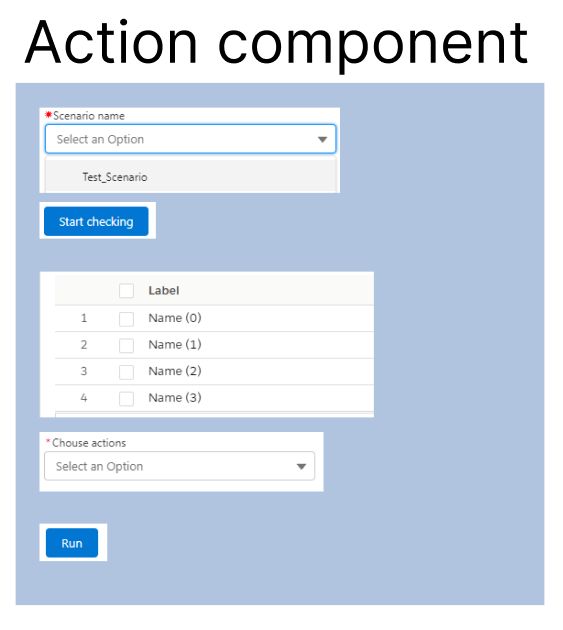
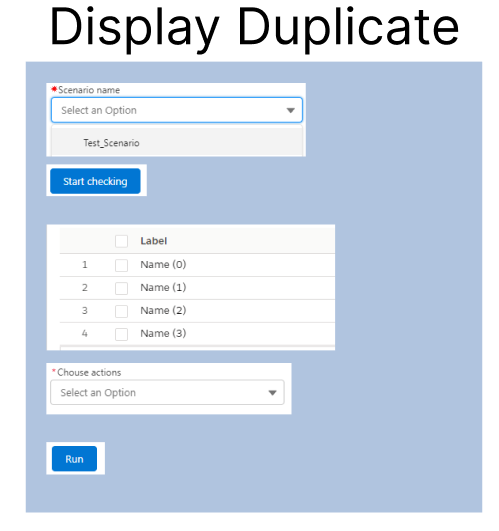
fix: presentation

Changed region(s): [[0.0301, 0.0, 0.9619, 0.9642]]

diff --git a/index.html b/index.html
@@ -247,7 +247,7 @@
         <section>
           <h5>Search duplicates Sync</h5>
           <div>
-            <img src="./assets/search-duplicates-sync.png" alt="search-duplicates-sync" width="" height="600px">
+            <img src="./assets/search-duplicates-sync.png" alt="search-duplicates-sync" width="250px" height="600px">
           </div>
         </section>
 
@@ -433,13 +433,13 @@
         </section>
 
         <section>
-          <h6>How to add new action</h6>
+          <h6>How to add new action(MVP-2)</h6>
           <ul>
             <li class="fragment" style="font-size: 32px;">There is a custom meta type with mapping action name class.</li>
             <li class="fragment" style="font-size: 32px;">In the Deduplication Action Item, create action fields.</li>
             <li class="fragment" style="font-size: 32px;">Add action name to Deduplication Action object Action types: picklist.</li>
             <li class="fragment" style="font-size: 32px;">If it is selected, then it will be taken with a custom metatype type by the name of the action class and the logic will be run on it.</li>
-            <li class="fragment"style="font-size: 32px;">Using the LWC extension, you can add your own tabs / pages to Application or dynamically render UI with json.</li>
+            <li class="fragment"style="font-size: 32px;">Using the LWC extension, you can add your own tabs / pages to Application or dynamically render UI with json (MVP-2).</li>
           </ul>
         </section>
 
